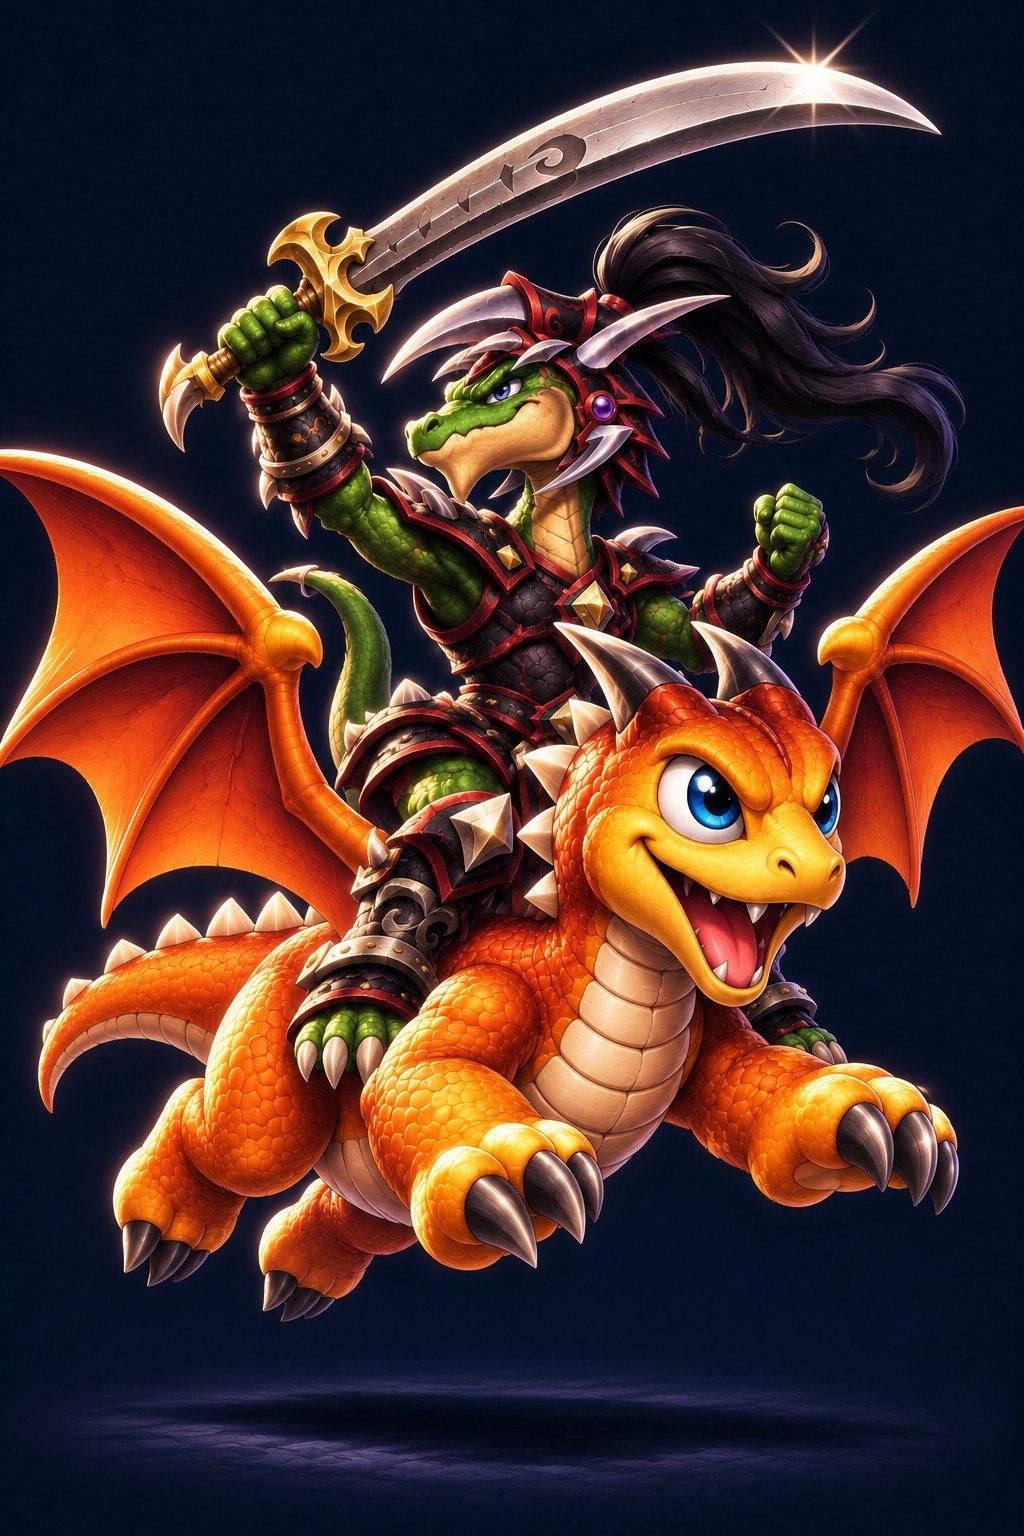
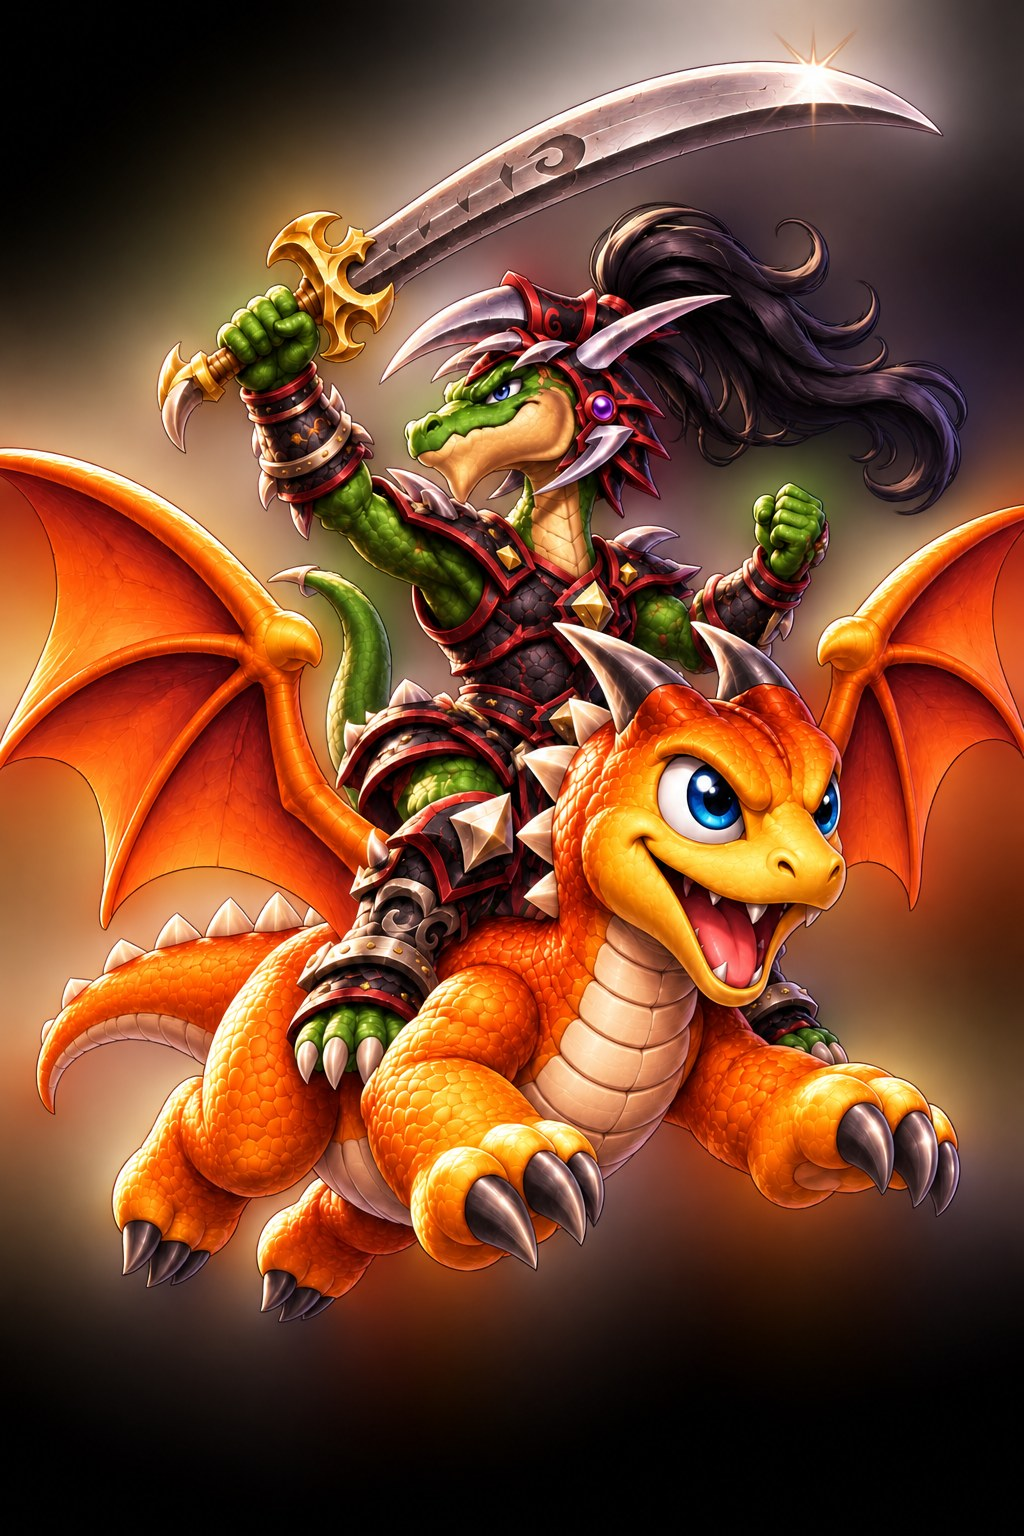
Mọi dung hợp hiện bảng chọn; đổi hình Chiến binh cưỡi rồng
Claude-Session: https://claude.ai/code/session_01XgSG6c941y51MkHw15hzYW

diff --git a/src/routes/play.tsx b/src/routes/play.tsx
@@ -5991,10 +5991,8 @@ function PlayPage() {
       if (slot === undefined) continue;
       opts.push({ uid: way.mats.find((mat): mat is Extract<FuseMat, { from: "field" }> => mat.from === "field")?.uid ?? "", slot, resultId: way.result, cost: cost(fuseSet(duel, index, way.result, slot)), set: { mats: way.mats } });
     }
-    // Một cách dung hợp: chạy thẳng. Từ 2 cách (2 lá / 3 lá): hiện bảng chọn 2 quái kết quả, mỗi quái một nút Dung hợp (chủ game 18/11).
-    if (opts.length === 1) {
-      list.push({ key: "fuse", label: "Dung hợp", tone: "fuse", emblem: "swirl", cost: opts[0].cost, onPress: () => startFuse(index, opts[0]) });
-    } else if (opts.length > 1) {
+    // Mọi dung hợp (kể cả chỉ 1 cách) hiện bảng chọn quái kết quả, mỗi quái một nút Dung hợp (chủ game 18/11).
+    if (opts.length > 0) {
       list.push({ key: "fuse", label: "Dung hợp", tone: "fuse", emblem: "swirl", cost: Math.min(...opts.map((opt) => opt.cost)), onPress: () => {
         setInspect(null);
         setPeekAt(0);

diff --git a/src/lib/updates.ts b/src/lib/updates.ts
@@ -1071,6 +1071,7 @@ export const PENDING_NOTES: string[] = [
   "Thêm Phù thuỷ tập sự (2 sao, công 0, thủ 0, thủ phép 3, máu 5, Cầu sấm +1 sát thương) và Phù thuỷ bậc thầy (3 sao, công 1, thủ 1, thủ phép 4, máu 6, Cầu sấm +1 sát thương, giết được mục tiêu thì Cầu sấm tăng thêm 1). Dung hợp từ Phù thuỷ tí hơn.",
   "Rồng con có hình mới.",
   "Thêm Chiến binh kỳ nhông (2 sao, công 3, thủ 1, thủ phép 1, máu 4) và Chiến binh cưỡi rồng (3 sao, công 4, thủ 1, thủ phép 1, máu 6, dung hợp từ Rồng con và Chiến binh kỳ nhông). Linh hoạt: bị nhắm bởi đòn từ 5 sát thương thì né 65%, né được thì chớp sáng. Cưỡi rồng: nửa công thành sát thương chuẩn và hồi máu cho nó.",
+  "Mọi dung hợp, kể cả chỉ có một cách, đều hiện bảng chọn quái kết quả với nút Dung hợp. Chiến binh cưỡi rồng đổi hình mới.",
 ];
 
 function remarkOf(notes: string[]) {

diff --git a/TIEP-TUC.md b/TIEP-TUC.md
@@ -633,6 +633,7 @@ Chủ game trả lời (29/10), CHƯA LÀM gì, chờ "ok" và trả lời câu 
 - CÁCH LÀM GIAO DIỆN (chủ game 28/10, nhắc gắt, KHÔNG được lặp lại): chủ game KHÔNG thử từng bước, nên KHÔNG làm bản tạm "cho chạy để thử" rồi sửa dần. Trước khi làm: đọc kỹ toàn bộ tài nguyên gốc (video, ảnh, code Grok) và chốt BỨC TRANH CHUNG với chủ game (bố cục trên xuống dưới, từng phần cuối cùng trông ra sao), rồi phác hoạ từng phần, rồi mới làm một lượt cho đúng bản cuối; xong phiên thì chạy được là đủ. Ví dụ đã sai: chân dung chớp xanh (cuối cùng là dòng sáng xanh/đỏ kiểu bể cá), icon tấn công, icon chuyển lượt (Grok có 3 mặt), làm rồi lại phải bỏ.
 - HỎI HẾT MỌI KHÂU THIẾT KẾ TRƯỚC KHI LÀM (chủ game 28/10, nhắc gắt sau vụ mũi tên ↑↓, tay đối thủ, xấp bài): trước khi làm một phần giao diện, liệt kê và hỏi TẤT CẢ những khâu thiết kế có thể phát sinh: vị trí chính xác (trên/ngoài lá, cạnh nhau hay chồng, chỗ nào trên bàn), nút cũ biến mất hay giữ, hình in sẵn trên bàn dùng hay vẽ thêm, số đặt ở đâu, kích thước, lúc nào hiện/ẩn, cách huỷ, áp cho những chỗ nào. Không tự chọn chỗ nào chưa được nói rõ, kể cả chỗ tưởng là nhỏ. Lần này Claude tự đặt mũi tên đè lên lá, mũi tên hai bên nút Triệu hồi, tay đối thủ cạnh xấp bài, mà chưa từng hỏi.
 - TỰ KIỂM CODE TRƯỚC KHI KẾT LUẬN "CHƯA CÓ" (chủ game 18/11): lá mới nhắc cơ chế (né đòn, sát thương chuẩn, hồi máu, Linh hoạt...) thì GREP duel.ts/catalog/keywords trước; game đã có sẵn né đòn (`rabbitDodge`, Thỏ đen tinh nghịch), sát thương chuẩn (`truLanded`, `packets.tru`), keyword Linh hoạt. Đã sai khi bảo "chưa có". Không hỏi điều bối cảnh/ảnh/code đã trả lời được (ví dụ "ảnh này của lá nào", "là keyword hay tên skill" khi chủ game đã nói); chỉ hỏi chỗ thật sự mơ hồ, và tách câu đã tự suy ra rồi nói "tôi hiểu là… đúng không".
+- SỬA 18/11 (chủ game): CHỈ quái dung hợp mới cần ảnh không nền; 2 ảnh Phù thuỷ chủ game đã gửi (có nền mờ, đang dùng), ảnh Chiến binh cưỡi rồng mới (`73c2d193`) đã thay. MỌI dung hợp (kể cả 1 cách) hiện bảng chọn `.fuse-pick` (play.tsx `handActions`). Mục dưới chỉ còn đúng cho quái dung hợp.
 - XIN ẢNH KHÔNG NỀN (chủ game 18/11): mỗi lá mới (quái, phép) chủ game gửi ảnh CÓ NỀN thì Claude TỰ yêu cầu ảnh không nền ngay khi thêm lá (dùng cho bảng chọn dung hợp, hiệu ứng), không chờ chủ game nhớ. Không tự cắt nền (cắt tự động không đảm bảo). Lá đang thiếu ảnh không nền: Phù thuỷ tập sự, Phù thuỷ bậc thầy, Chiến binh kỳ nhông, Chiến binh cưỡi rồng, Rồng con (hình mới).
 - LỖI ĐÃ MẮC, TUYỆT ĐỐI KHÔNG LẶP LẠI (chủ game 29/10: "Những lỗi sai cập nhật vào file md, tuyệt đối không để sai nữa"):
   - Tự vẽ lại bằng CSS thay vì dùng ảnh linh kiện chủ game đưa (15/11, màn Chọn bộ bài: chủ game gửi A3 ô/nút/dấu "!", A4 ô chọn glow xanh để CHÈN LÊN, Claude lại dựng `.dk2-*` bằng CSS nên không giống). Luật: chủ game đưa ảnh khung/nút/ô/glow thì CẮT NGUYÊN ảnh đó (nền đen: alpha = 3×max(r,g,b); nền khác: flood-fill từ rìa dừng ở viền) rồi gắn ảnh; chữ đã in sẵn trong ảnh thì giữ. Muốn dựng lại bằng code phải hỏi trước. Làm xong gửi ảnh miếng cắt cho chủ game xem.
